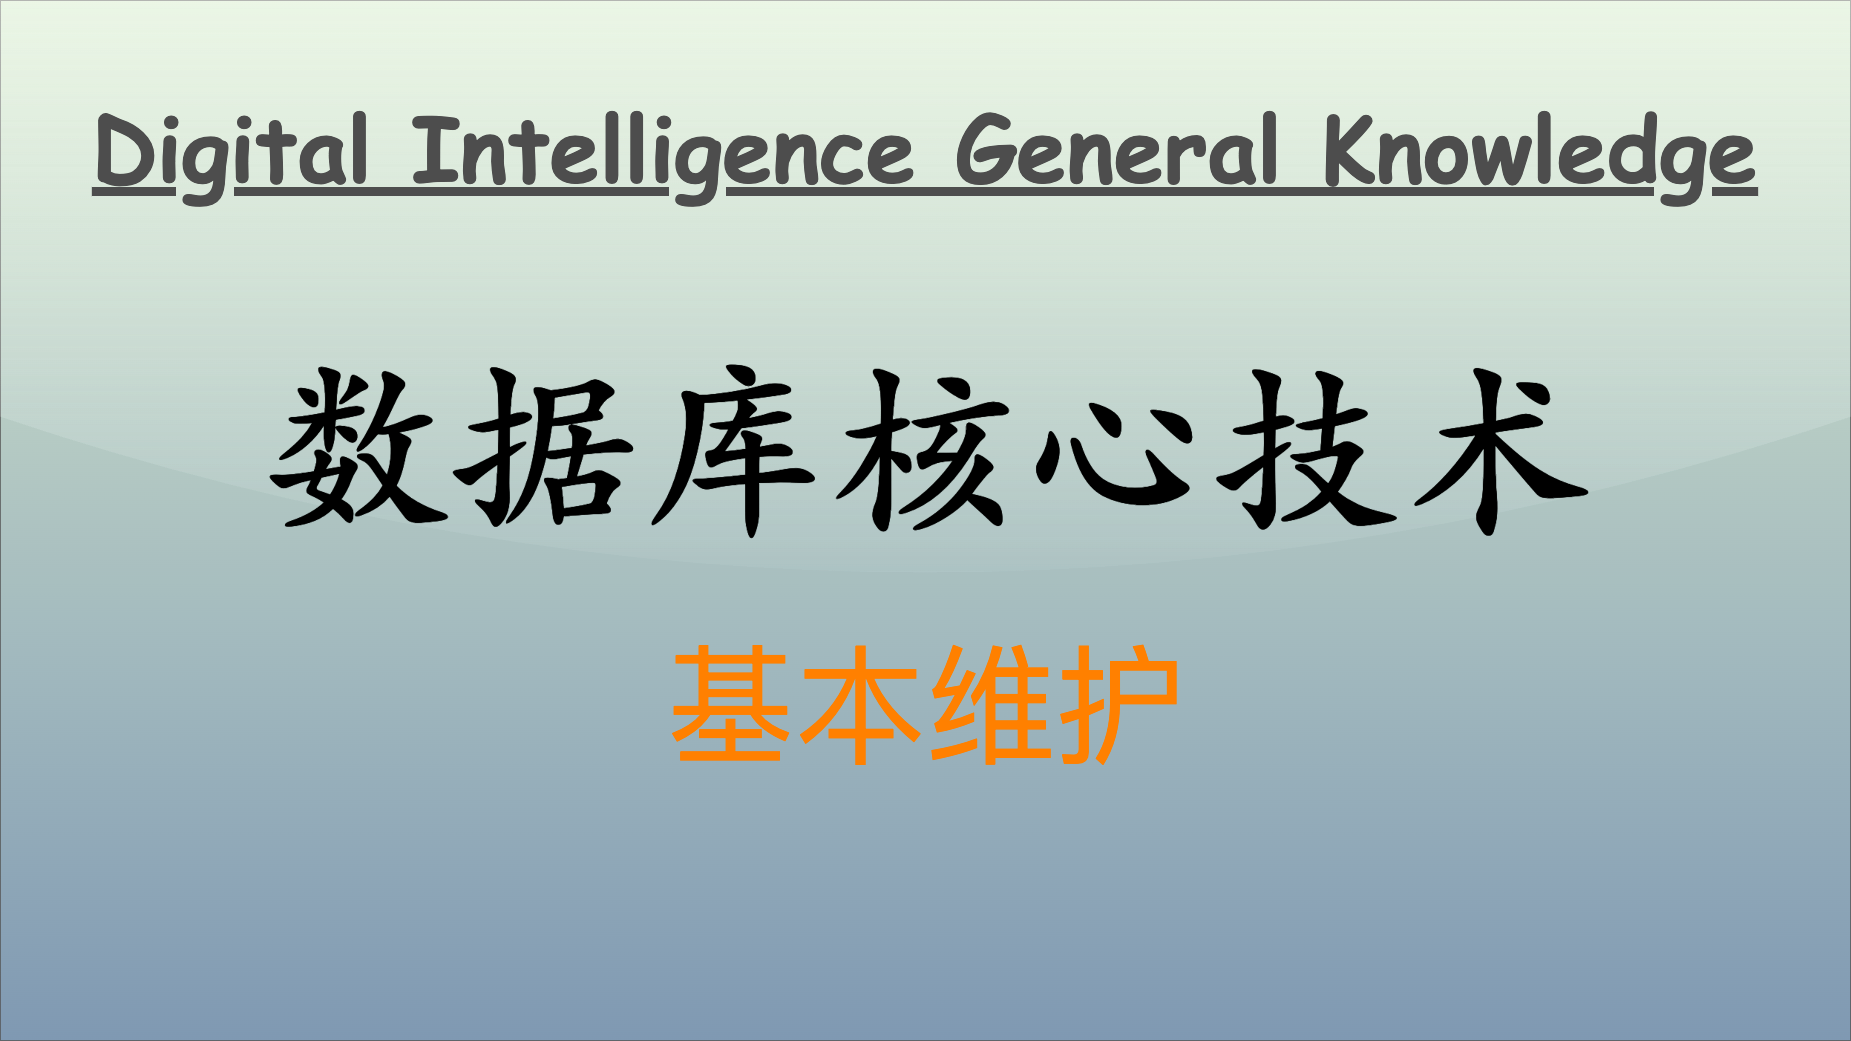
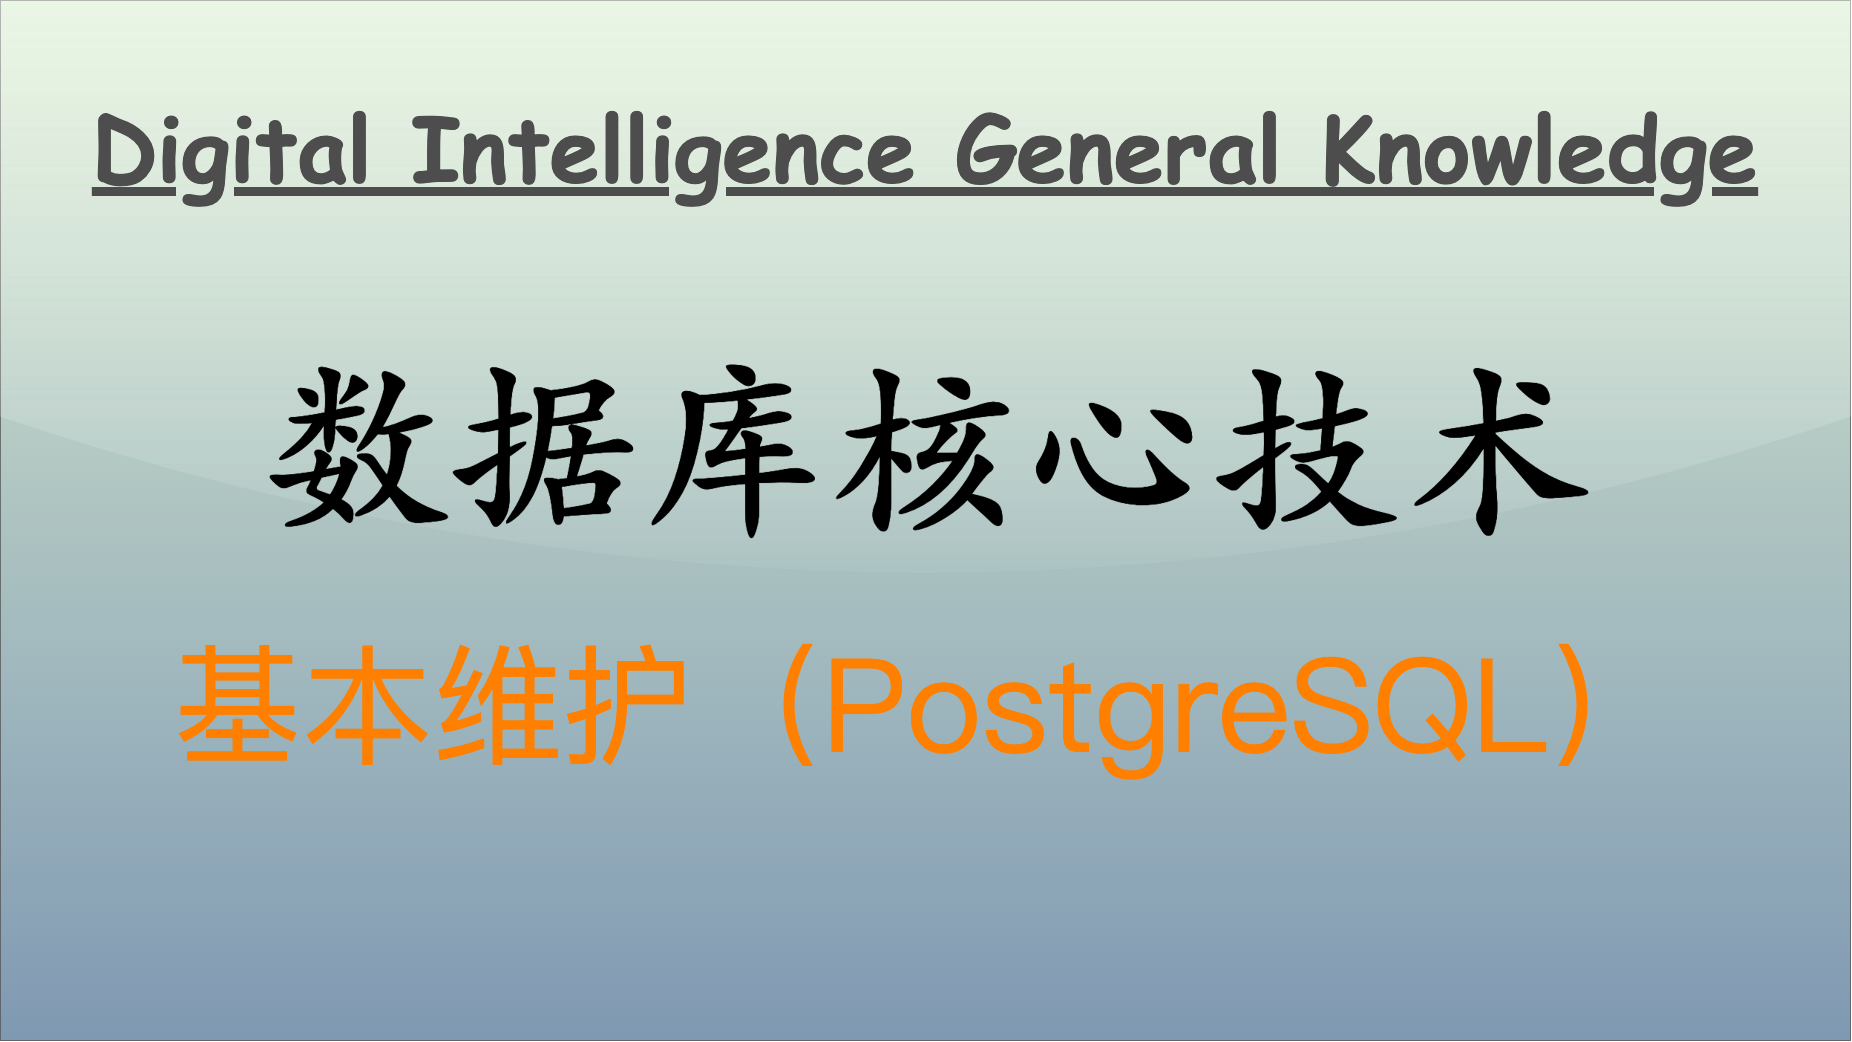
update DB: 基本维护

diff --git a/articles/general/the-essence-of-computing/14-数据库技术核心：基本维护（PostgreSQL）.md b/articles/general/the-essence-of-computing/14-数据库技术核心：基本维护（PostgreSQL）.md
@@ -39,7 +39,7 @@ brew install postgresql@15
 
 安装完成提示：
 
-```
+```bash
 This formula has created a default database cluster with:
   initdb --locale=C -E UTF-8 /opt/homebrew/var/postgresql@15
 For more details, read: